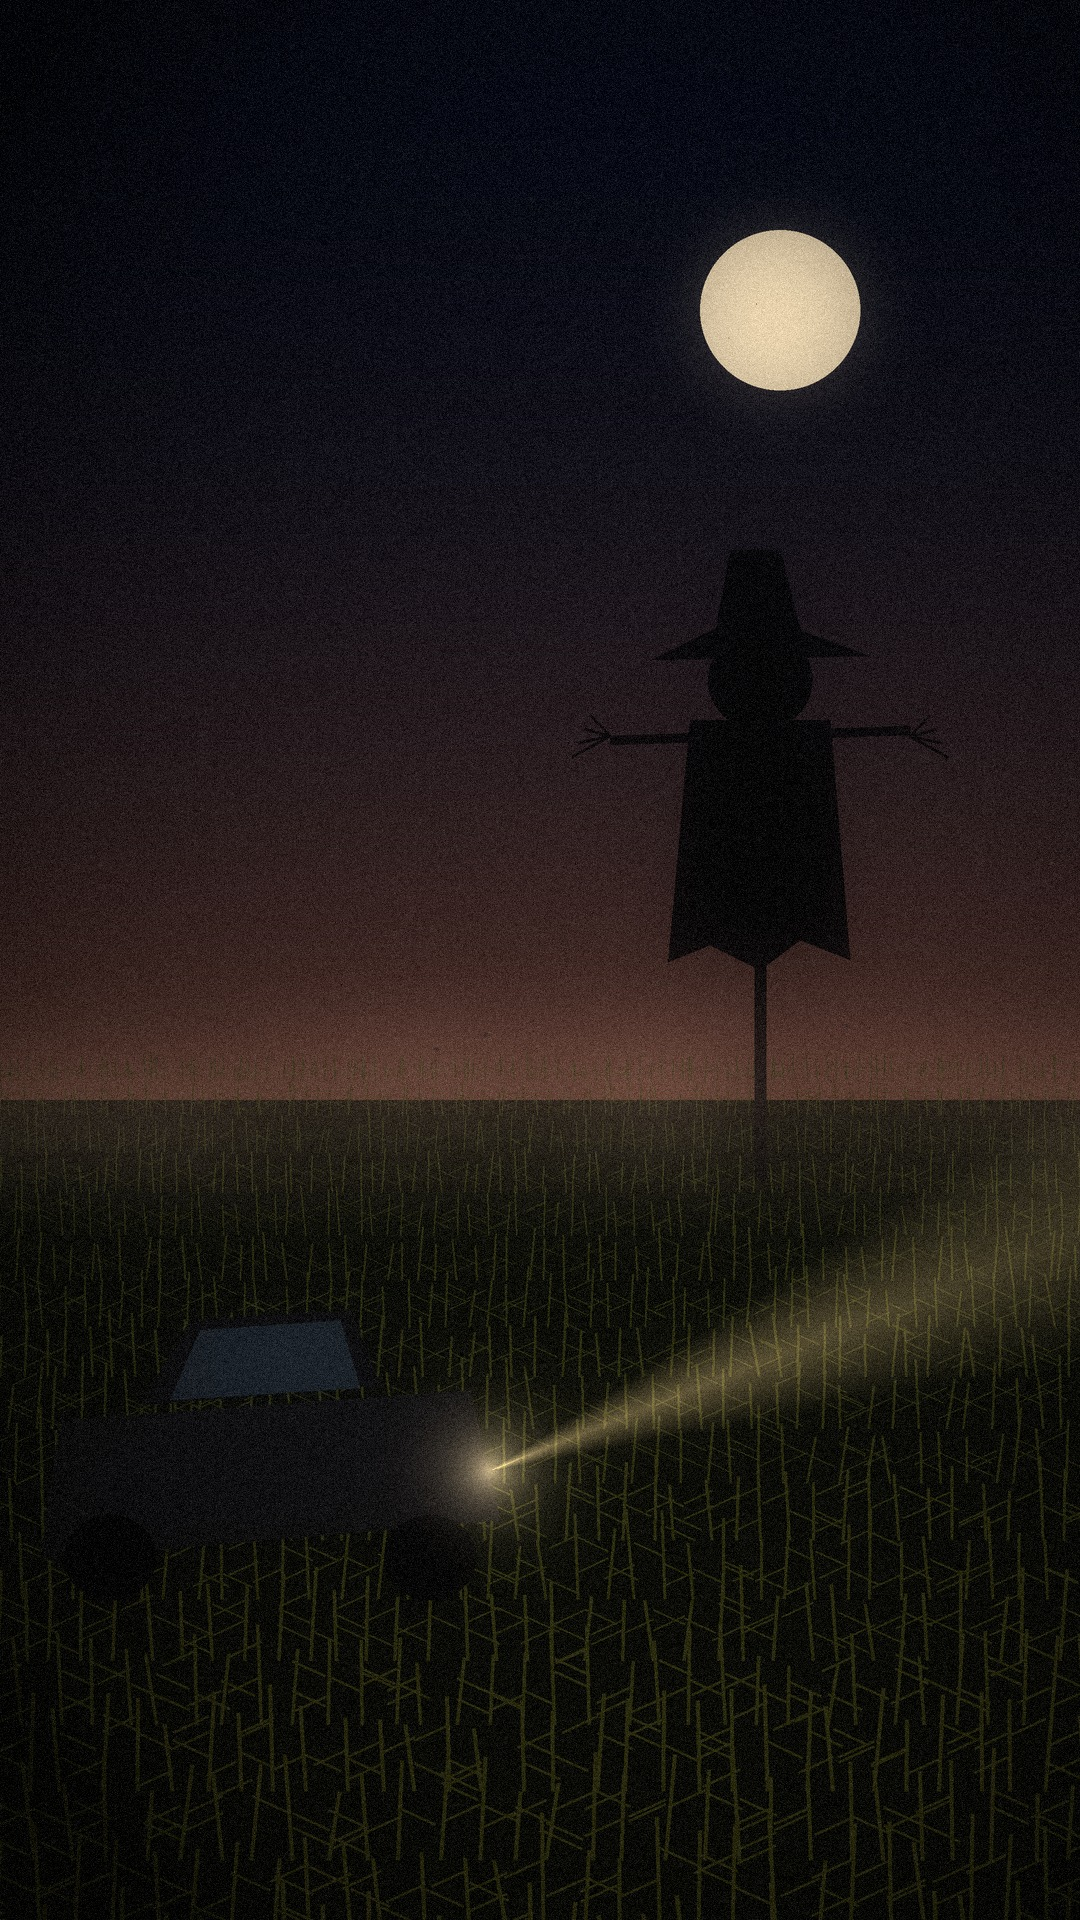
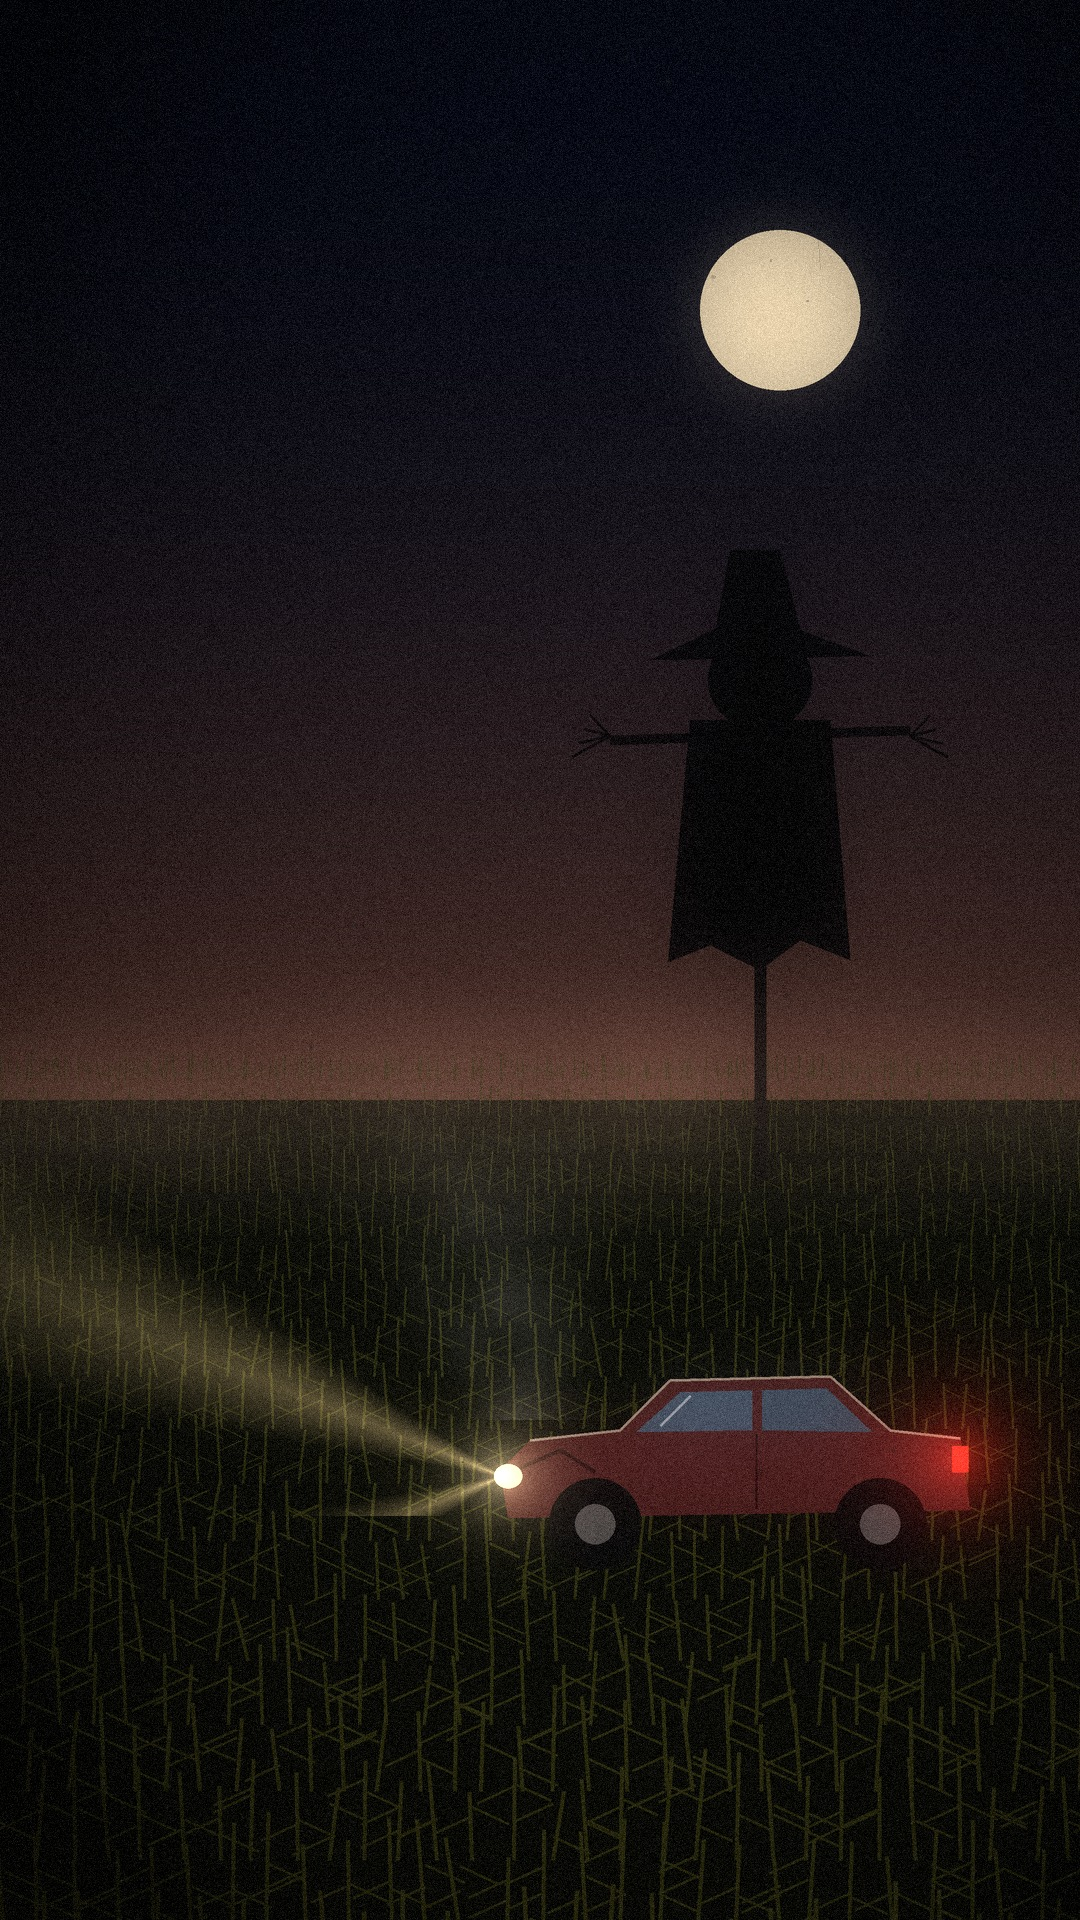
ig: 허수아비 배경의 차를 또렷하게(옆모습·달빛 윤곽·미등)
Claude-Session: https://claude.ai/code/session_01RCovqCTjag3WJkZFny7UQu

Changed region(s): [[0.0, 0.5625, 1.0, 1.0], [0.9167, 0.9688, 0.9472, 1.0]]

diff --git a/tools/ig/templates/reel-scare.html b/tools/ig/templates/reel-scare.html
@@ -37,7 +37,7 @@ html,body{width:1080px;height:1920px;background:#000;overflow:hidden;font-family
 
 .scene{transform-origin:70% 40%;animation:in .6s forwards,zoom3 10.5s linear forwards,dim .8s 1.55s forwards}
 @keyframes zoom3{from{transform:scale(1.02)}to{transform:scale(1.35)}}
-.head{position:absolute;inset:0;background:radial-gradient(circle at 45% 76%,rgba(255,235,170,.35),transparent 30%);mix-blend-mode:screen;z-index:2;animation:hl 2.9s steps(1) infinite}
+.head{position:absolute;inset:0;background:radial-gradient(circle at 46% 77%,rgba(255,235,170,.35),transparent 30%);mix-blend-mode:screen;z-index:2;animation:hl 2.9s steps(1) infinite}
 @keyframes hl{0%{opacity:1}40%{opacity:.2}43%{opacity:1}71%{opacity:0}74%{opacity:1}}
 @keyframes fp{0%{opacity:0}15%{opacity:1}100%{opacity:0}}@keyframes fall{0%{opacity:0;transform:translate(0,0) rotate(0)}8%{opacity:1}100%{opacity:.9;transform:translate(120px,2000px) rotate(540deg)}}</style></head><body><div class="stage">
 <div class="scene"></div><div class="head"></div><div class="grain"></div><div class="flick"></div>

diff --git a/tools/ig/drawings/south_moods.py b/tools/ig/drawings/south_moods.py
@@ -140,18 +140,31 @@ def scare():
     d.polygon([P(sx - 110, sy - 40), P(sx + 110, sy - 44), P(sx + 40, sy - 70), P(sx + 20, sy - 150), P(sx - 30, sy - 150), P(sx - 44, sy - 72)], fill=K)
     for s in (-1, 1):
         for k in range(4): d.line([P(sx + s * 150, sy + 36), P(sx + s * (170 + k * 6), sy + 36 + (k - 1.5) * 14)], fill=K, width=3 * S)
-    # 멈춘 차(왼쪽 아래, 비스듬히)
-    d.polygon([P(60, 1420), P(470, 1390), P(500, 1520), P(40, 1560)], fill=(18, 18, 22))
-    d.polygon([P(140, 1405), P(380, 1385), P(350, 1310), P(190, 1320)], fill=(14, 14, 18))
-    d.polygon([P(200, 1330), P(340, 1320), P(360, 1388), P(170, 1400)], fill=(30, 40, 52))
-    for cx in (110, 430): d.ellipse([P(cx - 46, 1515), P(cx + 46, 1600)], fill=(4, 4, 6))
+    # 멈춘 차(오른쪽 아래, 옆모습): 왼쪽(밭 쪽)을 보고 서 있다. 달빛이 지붕·문 윤곽에 걸리고, 찌그러진 앞에서 연기
+    X0, Y0 = 500, 1380                                                                             # 차 왼쪽 위 기준
+    body = [P(X0, Y0 + 90), P(X0 + 30, Y0 + 60), P(X0 + 120, Y0 + 50), P(X0 + 170, Y0), P(X0 + 330, Y0 - 4), P(X0 + 390, Y0 + 50),
+            P(X0 + 460, Y0 + 58), P(X0 + 470, Y0 + 130), P(X0 + 8, Y0 + 138)]
+    d.polygon(body, fill=(78, 34, 36))
+    d.polygon([P(X0 + 180, Y0 + 12), P(X0 + 252, Y0 + 10), P(X0 + 252, Y0 + 50), P(X0 + 136, Y0 + 52)], fill=(70, 92, 120))   # 앞 유리창
+    d.polygon([P(X0 + 262, Y0 + 10), P(X0 + 326, Y0 + 8), P(X0 + 372, Y0 + 52), P(X0 + 262, Y0 + 50)], fill=(64, 86, 112))    # 뒤 유리창
+    d.line([P(X0 + 190, Y0 + 16), P(X0 + 160, Y0 + 46)], fill=(170, 190, 215), width=3 * S)                                     # 유리 반사
+    d.line([P(X0 + 30, Y0 + 60), P(X0 + 120, Y0 + 50), P(X0 + 170, Y0), P(X0 + 330, Y0 - 4), P(X0 + 390, Y0 + 50), P(X0 + 460, Y0 + 58)], fill=(176, 160, 150), width=3 * S)  # 달빛 윤곽
+    d.line([P(X0 + 256, Y0 + 54), P(X0 + 256, Y0 + 128)], fill=(40, 16, 18), width=2 * S)                                        # 문 틈
+    d.line([P(X0 + 10, Y0 + 92), P(X0 + 60, Y0 + 70), P(X0 + 95, Y0 + 92)], fill=(40, 16, 18), width=4 * S)                     # 찌그러진 앞쪽
+    for cx in (X0 + 95, X0 + 380):                                                                                                # 바퀴
+        d.ellipse([P(cx - 46, Y0 + 98), P(cx + 46, Y0 + 190)], fill=(8, 8, 10)); d.ellipse([P(cx - 20, Y0 + 124), P(cx + 20, Y0 + 164)], fill=(90, 90, 96))
+    d.rectangle([P(X0 + 452, Y0 + 66), P(X0 + 468, Y0 + 92)], fill=(255, 60, 50))                                                # 미등
+    d.ellipse([P(X0 - 6, Y0 + 84), P(X0 + 22, Y0 + 108)], fill=(255, 246, 210))                                                  # 헤드라이트
     a = arr(im)
     # 헤드라이트 하나: 옥수수밭 쪽으로 뻗는 빛
-    hx, hy = 490, 1470
+    hx, hy = 502, 1476
     ang = np.arctan2(YY - hy, XX - hx); dist = np.hypot(XX - hx, YY - hy)
-    beam = np.clip(1 - np.abs(ang - (-0.38)) / .2, 0, 1) * np.exp(-dist / 700) * (XX > hx)
+    beam = np.clip(1 - np.abs(np.abs(ang) - (np.pi - 0.38)) / .22, 0, 1) * np.exp(-dist / 700) * (XX < hx) * (YY < hy + 40)
     a += np.array([230, 210, 150]) * beam[..., None] * .55
     a += np.array([255, 240, 190]) * np.exp(-dist / 26)[..., None] * .9
+    td = np.hypot(XX - 960, YY - 1459); a += np.array([255, 40, 30]) * np.exp(-td / 40)[..., None] * .7   # 미등 번짐
+    sm_ = sm(40, 31); smoke = np.exp(-((XX - 520 + (1380 - YY) * .25) / (40 + (1400 - YY).clip(0) * .35)) ** 2) * ((YY < 1420) & (YY > 1080)) * (0.4 + 0.6 * sm_) * np.clip((YY - 1080) / 340, 0, 1)
+    a += np.array([150, 150, 160]) * smoke[..., None] * .35                                   # 앞쪽에서 오르는 연기
     a = glow(a, 30, .3)
     # 달빛 안개(지평선)
     a += np.array([60, 50, 46]) * (np.exp(-((YY - 1110) / 90) ** 2) * (0.6 + 0.4 * sm(120, 11)))[..., None] * .8

diff --git a/tools/ig/drawings/south_reels.py b/tools/ig/drawings/south_reels.py
@@ -29,7 +29,7 @@ FX = {
  "scare": """
 .scene{transform-origin:70% 40%;animation:in .6s forwards,zoom3 10.5s linear forwards,dim .8s 1.55s forwards}
 @keyframes zoom3{from{transform:scale(1.02)}to{transform:scale(1.35)}}
-.head{position:absolute;inset:0;background:radial-gradient(circle at 45% 76%,rgba(255,235,170,.35),transparent 30%);mix-blend-mode:screen;z-index:2;animation:hl 2.9s steps(1) infinite}
+.head{position:absolute;inset:0;background:radial-gradient(circle at 46% 77%,rgba(255,235,170,.35),transparent 30%);mix-blend-mode:screen;z-index:2;animation:hl 2.9s steps(1) infinite}
 @keyframes hl{0%{opacity:1}40%{opacity:.2}43%{opacity:1}71%{opacity:0}74%{opacity:1}}
 """,
  # 네온이 지직거리고, 끝의 노래방 기계 화면이 붉게 숨 쉰다
